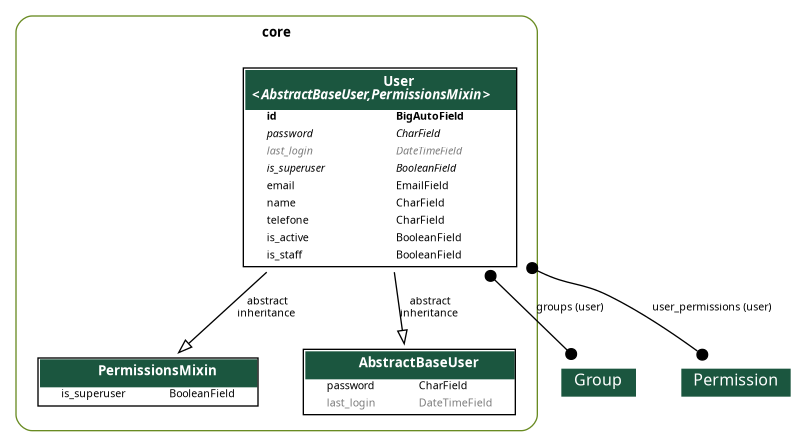
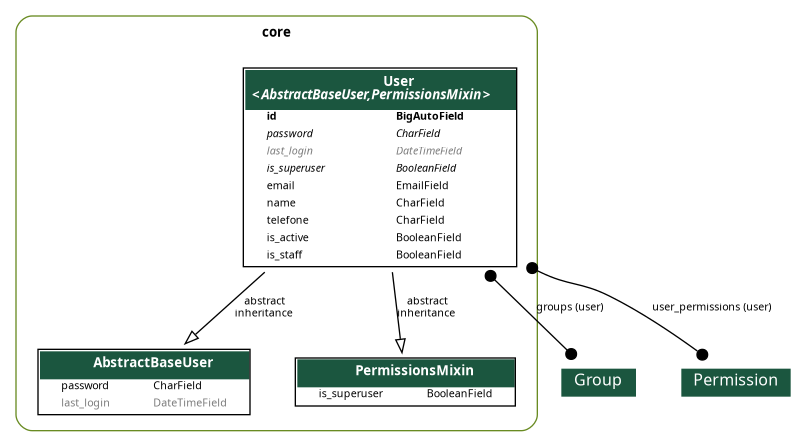
feat: correções no admin.py

Changed region(s): [[0.031, 0.6107, 0.6506, 0.9306], [0.3098, 0.6107, 0.3408, 0.6398]]

diff --git a/core/admin.py b/core/admin.py
@@ -13,10 +13,10 @@ class UserAdmin(BaseUserAdmin):
     """Define the admin pages for users."""
 
     ordering = ['id']
-    list_display = ['email', 'name']
+    list_display = ['email', 'name', 'telefone']
     fieldsets = (
         (None, {'fields': ('email', 'password')}),
-        (_('Personal Info'), {'fields': ('name',)}),
+        (_('Personal Info'), {'fields': ('name', 'telefone')}),
         (
             _('Permissions'),
             {
@@ -42,6 +42,7 @@ class UserAdmin(BaseUserAdmin):
                     'password1',
                     'password2',
                     'name',
+                    'telefone',
                     'is_active',
                     'is_staff',
                     'is_superuser',